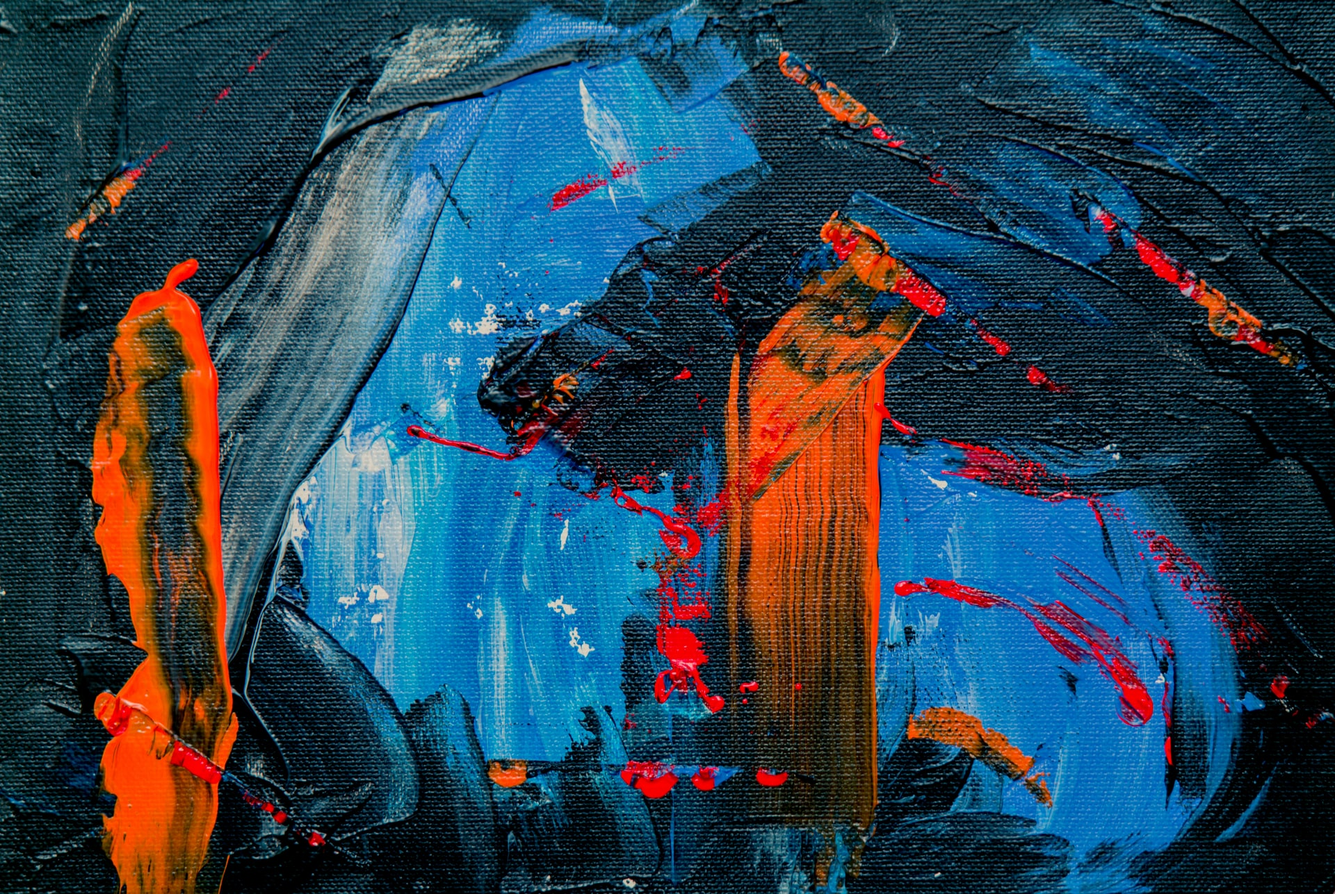
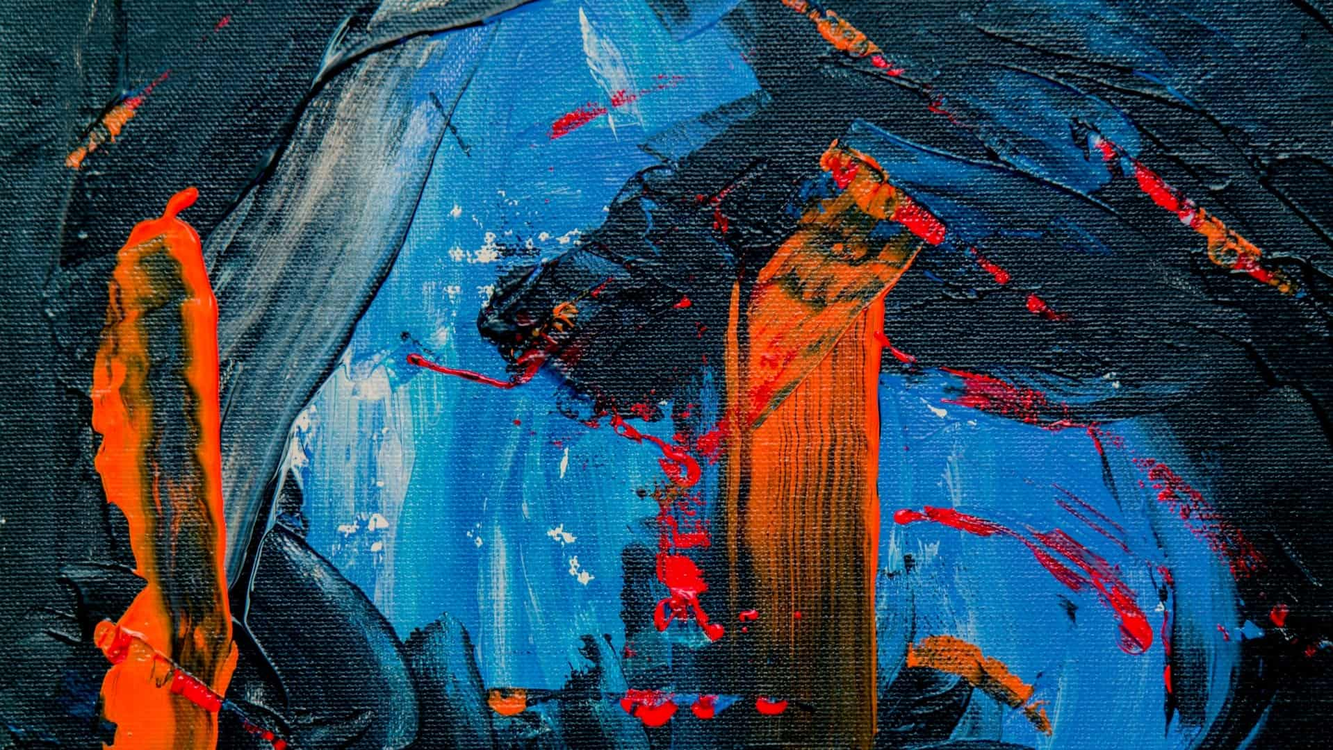
V 1.1 changed country to select, password match javascript, remove login requirement for buy, fix money input

diff --git a/templates/register.html b/templates/register.html
@@ -28,7 +28,252 @@ Register
             </div>
             <div class="form-group">
                 <label for="inputCountry">Country:</label>
-                <input type="text" name="country" class="form-control" id="inputCountry" aria-describedby="country" required>
+                <select id="country" name="country" class="form-control custom-select" id="inputCountry" aria-describedby="country" required>
+                    <option value="Afghanistan">Afghanistan</option>
+                    <option value="Åland Islands">Åland Islands</option>
+                    <option value="Albania">Albania</option>
+                    <option value="Algeria">Algeria</option>
+                    <option value="American Samoa">American Samoa</option>
+                    <option value="Andorra">Andorra</option>
+                    <option value="Angola">Angola</option>
+                    <option value="Anguilla">Anguilla</option>
+                    <option value="Antarctica">Antarctica</option>
+                    <option value="Antigua and Barbuda">Antigua and Barbuda</option>
+                    <option value="Argentina">Argentina</option>
+                    <option value="Armenia">Armenia</option>
+                    <option value="Aruba">Aruba</option>
+                    <option value="Australia">Australia</option>
+                    <option value="Austria">Austria</option>
+                    <option value="Azerbaijan">Azerbaijan</option>
+                    <option value="Bahamas">Bahamas</option>
+                    <option value="Bahrain">Bahrain</option>
+                    <option value="Bangladesh">Bangladesh</option>
+                    <option value="Barbados">Barbados</option>
+                    <option value="Belarus">Belarus</option>
+                    <option value="Belgium">Belgium</option>
+                    <option value="Belize">Belize</option>
+                    <option value="Benin">Benin</option>
+                    <option value="Bermuda">Bermuda</option>
+                    <option value="Bhutan">Bhutan</option>
+                    <option value="Bolivia">Bolivia</option>
+                    <option value="Bosnia and Herzegovina">Bosnia and Herzegovina</option>
+                    <option value="Botswana">Botswana</option>
+                    <option value="Bouvet Island">Bouvet Island</option>
+                    <option value="Brazil">Brazil</option>
+                    <option value="British Indian Ocean Territory">British Indian Ocean Territory</option>
+                    <option value="Brunei Darussalam">Brunei Darussalam</option>
+                    <option value="Bulgaria">Bulgaria</option>
+                    <option value="Burkina Faso">Burkina Faso</option>
+                    <option value="Burundi">Burundi</option>
+                    <option value="Cambodia">Cambodia</option>
+                    <option value="Cameroon">Cameroon</option>
+                    <option value="Canada">Canada</option>
+                    <option value="Cape Verde">Cape Verde</option>
+                    <option value="Cayman Islands">Cayman Islands</option>
+                    <option value="Central African Republic">Central African Republic</option>
+                    <option value="Chad">Chad</option>
+                    <option value="Chile">Chile</option>
+                    <option value="China">China</option>
+                    <option value="Christmas Island">Christmas Island</option>
+                    <option value="Cocos (Keeling) Islands">Cocos (Keeling) Islands</option>
+                    <option value="Colombia">Colombia</option>
+                    <option value="Comoros">Comoros</option>
+                    <option value="Congo">Congo</option>
+                    <option value="Congo, The Democratic Republic of The">Congo, The Democratic Republic of The</option>
+                    <option value="Cook Islands">Cook Islands</option>
+                    <option value="Costa Rica">Costa Rica</option>
+                    <option value="Cote D'ivoire">Cote D'ivoire</option>
+                    <option value="Croatia">Croatia</option>
+                    <option value="Cuba">Cuba</option>
+                    <option value="Cyprus">Cyprus</option>
+                    <option value="Czech Republic">Czech Republic</option>
+                    <option value="Denmark">Denmark</option>
+                    <option value="Djibouti">Djibouti</option>
+                    <option value="Dominica">Dominica</option>
+                    <option value="Dominican Republic">Dominican Republic</option>
+                    <option value="Ecuador">Ecuador</option>
+                    <option value="Egypt">Egypt</option>
+                    <option value="El Salvador">El Salvador</option>
+                    <option value="Equatorial Guinea">Equatorial Guinea</option>
+                    <option value="Eritrea">Eritrea</option>
+                    <option value="Estonia">Estonia</option>
+                    <option value="Ethiopia">Ethiopia</option>
+                    <option value="Falkland Islands (Malvinas)">Falkland Islands (Malvinas)</option>
+                    <option value="Faroe Islands">Faroe Islands</option>
+                    <option value="Fiji">Fiji</option>
+                    <option value="Finland">Finland</option>
+                    <option value="France">France</option>
+                    <option value="French Guiana">French Guiana</option>
+                    <option value="French Polynesia">French Polynesia</option>
+                    <option value="French Southern Territories">French Southern Territories</option>
+                    <option value="Gabon">Gabon</option>
+                    <option value="Gambia">Gambia</option>
+                    <option value="Georgia">Georgia</option>
+                    <option value="Germany">Germany</option>
+                    <option value="Ghana">Ghana</option>
+                    <option value="Gibraltar">Gibraltar</option>
+                    <option value="Greece">Greece</option>
+                    <option value="Greenland">Greenland</option>
+                    <option value="Grenada">Grenada</option>
+                    <option value="Guadeloupe">Guadeloupe</option>
+                    <option value="Guam">Guam</option>
+                    <option value="Guatemala">Guatemala</option>
+                    <option value="Guernsey">Guernsey</option>
+                    <option value="Guinea">Guinea</option>
+                    <option value="Guinea-bissau">Guinea-bissau</option>
+                    <option value="Guyana">Guyana</option>
+                    <option value="Haiti">Haiti</option>
+                    <option value="Heard Island and Mcdonald Islands">Heard Island and Mcdonald Islands</option>
+                    <option value="Holy See (Vatican City State)">Holy See (Vatican City State)</option>
+                    <option value="Honduras">Honduras</option>
+                    <option value="Hong Kong">Hong Kong</option>
+                    <option value="Hungary">Hungary</option>
+                    <option value="Iceland">Iceland</option>
+                    <option value="India">India</option>
+                    <option value="Indonesia">Indonesia</option>
+                    <option value="Iran, Islamic Republic of">Iran, Islamic Republic of</option>
+                    <option value="Iraq">Iraq</option>
+                    <option value="Ireland">Ireland</option>
+                    <option value="Isle of Man">Isle of Man</option>
+                    <option value="Israel">Israel</option>
+                    <option value="Italy">Italy</option>
+                    <option value="Jamaica">Jamaica</option>
+                    <option value="Japan">Japan</option>
+                    <option value="Jersey">Jersey</option>
+                    <option value="Jordan">Jordan</option>
+                    <option value="Kazakhstan">Kazakhstan</option>
+                    <option value="Kenya">Kenya</option>
+                    <option value="Kiribati">Kiribati</option>
+                    <option value="Korea, Democratic People's Republic of">Korea, Democratic People's Republic of</option>
+                    <option value="Korea, Republic of">Korea, Republic of</option>
+                    <option value="Kuwait">Kuwait</option>
+                    <option value="Kyrgyzstan">Kyrgyzstan</option>
+                    <option value="Lao People's Democratic Republic">Lao People's Democratic Republic</option>
+                    <option value="Latvia">Latvia</option>
+                    <option value="Lebanon">Lebanon</option>
+                    <option value="Lesotho">Lesotho</option>
+                    <option value="Liberia">Liberia</option>
+                    <option value="Libyan Arab Jamahiriya">Libyan Arab Jamahiriya</option>
+                    <option value="Liechtenstein">Liechtenstein</option>
+                    <option value="Lithuania">Lithuania</option>
+                    <option value="Luxembourg">Luxembourg</option>
+                    <option value="Macao">Macao</option>
+                    <option value="Macedonia, The Former Yugoslav Republic of">Macedonia, The Former Yugoslav Republic of</option>
+                    <option value="Madagascar">Madagascar</option>
+                    <option value="Malawi">Malawi</option>
+                    <option value="Malaysia">Malaysia</option>
+                    <option value="Maldives">Maldives</option>
+                    <option value="Mali">Mali</option>
+                    <option value="Malta">Malta</option>
+                    <option value="Marshall Islands">Marshall Islands</option>
+                    <option value="Martinique">Martinique</option>
+                    <option value="Mauritania">Mauritania</option>
+                    <option value="Mauritius">Mauritius</option>
+                    <option value="Mayotte">Mayotte</option>
+                    <option value="Mexico">Mexico</option>
+                    <option value="Micronesia, Federated States of">Micronesia, Federated States of</option>
+                    <option value="Moldova, Republic of">Moldova, Republic of</option>
+                    <option value="Monaco">Monaco</option>
+                    <option value="Mongolia">Mongolia</option>
+                    <option value="Montenegro">Montenegro</option>
+                    <option value="Montserrat">Montserrat</option>
+                    <option value="Morocco">Morocco</option>
+                    <option value="Mozambique">Mozambique</option>
+                    <option value="Myanmar">Myanmar</option>
+                    <option value="Namibia">Namibia</option>
+                    <option value="Nauru">Nauru</option>
+                    <option value="Nepal">Nepal</option>
+                    <option value="Netherlands">Netherlands</option>
+                    <option value="Netherlands Antilles">Netherlands Antilles</option>
+                    <option value="New Caledonia">New Caledonia</option>
+                    <option value="New Zealand">New Zealand</option>
+                    <option value="Nicaragua">Nicaragua</option>
+                    <option value="Niger">Niger</option>
+                    <option value="Nigeria">Nigeria</option>
+                    <option value="Niue">Niue</option>
+                    <option value="Norfolk Island">Norfolk Island</option>
+                    <option value="Northern Mariana Islands">Northern Mariana Islands</option>
+                    <option value="Norway">Norway</option>
+                    <option value="Oman">Oman</option>
+                    <option value="Pakistan">Pakistan</option>
+                    <option value="Palau">Palau</option>
+                    <option value="Palestinian Territory, Occupied">Palestinian Territory, Occupied</option>
+                    <option value="Panama">Panama</option>
+                    <option value="Papua New Guinea">Papua New Guinea</option>
+                    <option value="Paraguay">Paraguay</option>
+                    <option value="Peru">Peru</option>
+                    <option value="Philippines">Philippines</option>
+                    <option value="Pitcairn">Pitcairn</option>
+                    <option value="Poland">Poland</option>
+                    <option value="Portugal">Portugal</option>
+                    <option value="Puerto Rico">Puerto Rico</option>
+                    <option value="Qatar">Qatar</option>
+                    <option value="Reunion">Reunion</option>
+                    <option value="Romania">Romania</option>
+                    <option value="Russian Federation">Russian Federation</option>
+                    <option value="Rwanda">Rwanda</option>
+                    <option value="Saint Helena">Saint Helena</option>
+                    <option value="Saint Kitts and Nevis">Saint Kitts and Nevis</option>
+                    <option value="Saint Lucia">Saint Lucia</option>
+                    <option value="Saint Pierre and Miquelon">Saint Pierre and Miquelon</option>
+                    <option value="Saint Vincent and The Grenadines">Saint Vincent and The Grenadines</option>
+                    <option value="Samoa">Samoa</option>
+                    <option value="San Marino">San Marino</option>
+                    <option value="Sao Tome and Principe">Sao Tome and Principe</option>
+                    <option value="Saudi Arabia">Saudi Arabia</option>
+                    <option value="Senegal">Senegal</option>
+                    <option value="Serbia">Serbia</option>
+                    <option value="Seychelles">Seychelles</option>
+                    <option value="Sierra Leone">Sierra Leone</option>
+                    <option value="Singapore">Singapore</option>
+                    <option value="Slovakia">Slovakia</option>
+                    <option value="Slovenia">Slovenia</option>
+                    <option value="Solomon Islands">Solomon Islands</option>
+                    <option value="Somalia">Somalia</option>
+                    <option value="South Africa">South Africa</option>
+                    <option value="South Georgia and The South Sandwich Islands">South Georgia and The South Sandwich Islands</option>
+                    <option value="Spain">Spain</option>
+                    <option value="Sri Lanka">Sri Lanka</option>
+                    <option value="Sudan">Sudan</option>
+                    <option value="Suriname">Suriname</option>
+                    <option value="Svalbard and Jan Mayen">Svalbard and Jan Mayen</option>
+                    <option value="Swaziland">Swaziland</option>
+                    <option value="Sweden">Sweden</option>
+                    <option value="Switzerland">Switzerland</option>
+                    <option value="Syrian Arab Republic">Syrian Arab Republic</option>
+                    <option value="Taiwan, Province of China">Taiwan, Province of China</option>
+                    <option value="Tajikistan">Tajikistan</option>
+                    <option value="Tanzania, United Republic of">Tanzania, United Republic of</option>
+                    <option value="Thailand">Thailand</option>
+                    <option value="Timor-leste">Timor-leste</option>
+                    <option value="Togo">Togo</option>
+                    <option value="Tokelau">Tokelau</option>
+                    <option value="Tonga">Tonga</option>
+                    <option value="Trinidad and Tobago">Trinidad and Tobago</option>
+                    <option value="Tunisia">Tunisia</option>
+                    <option value="Turkey">Turkey</option>
+                    <option value="Turkmenistan">Turkmenistan</option>
+                    <option value="Turks and Caicos Islands">Turks and Caicos Islands</option>
+                    <option value="Tuvalu">Tuvalu</option>
+                    <option value="Uganda">Uganda</option>
+                    <option value="Ukraine">Ukraine</option>
+                    <option value="United Arab Emirates">United Arab Emirates</option>
+                    <option value="United Kingdom">United Kingdom</option>
+                    <option value="United States">United States</option>
+                    <option value="United States Minor Outlying Islands">United States Minor Outlying Islands</option>
+                    <option value="Uruguay">Uruguay</option>
+                    <option value="Uzbekistan">Uzbekistan</option>
+                    <option value="Vanuatu">Vanuatu</option>
+                    <option value="Venezuela">Venezuela</option>
+                    <option value="Viet Nam">Viet Nam</option>
+                    <option value="Virgin Islands, British">Virgin Islands, British</option>
+                    <option value="Virgin Islands, U.S.">Virgin Islands, U.S.</option>
+                    <option value="Wallis and Futuna">Wallis and Futuna</option>
+                    <option value="Western Sahara">Western Sahara</option>
+                    <option value="Yemen">Yemen</option>
+                    <option value="Zambia">Zambia</option>
+                    <option value="Zimbabwe">Zimbabwe</option>
+                </select>
             </div>
             <div class="form-group">
                 <label for="inputPassword">Password:</label>
@@ -40,10 +285,30 @@ Register
                 <label for="inputPassword">Password Again:</label>
                 <input type="password" name="secPassword" class="form-control" id="secPassword" required>
             </div>
+            <div id="infoDiv">
+
+            </div>
             <div class="form-group d-flex justify-content-center mt-5">
-                <button type="submit" class="btn btn-primary">Register</button>
+                <button type="submit" class="btn btn-primary" id="registerButton">Register</button>
             </div>
         </form>
     </div>
 </section>
+<script>
+    const firstPassword = document.querySelector("#inputPassword");
+    const secondPassword = document.querySelector("#secPassword");
+    const infoDiv = document.querySelector("#infoDiv")
+    const registerButton = document.querySelector("#registerButton")
+    secondPassword.addEventListener("input", (e)=>{
+        if (e.target.value !== firstPassword.value) {
+            infoDiv.innerHTML = `<small id="errorHelp" class="form-text text-danger">The passwords don't match</small>`;
+            registerButton.disabled = true;
+            registerButton.classList.add("disabled")
+        } else {
+            infoDiv.innerHTML = ""
+            registerButton.disabled = false;
+            registerButton.classList.remove("disabled")
+        }
+    });
+</script>
 {% endblock %}

diff --git a/templates/dashboard.html b/templates/dashboard.html
@@ -28,7 +28,8 @@ Dashboard
                             <h3 class="display-5">Add Cash</h3>
                             <div class="form-group mt-3"> 
                                 <input type="number" name="moreCash" class="form-control" id="inputCash"
-                                    placeholder="200" required>
+                                    placeholder="200" min="1" max="10000" required>
+                                <small id="cashHelp" class="form-text text-muted">Max amount is 10,000</small>
                             </div>
                             <div class="form-group d-flex justify-content-center">
                                 <button type="submit" class="btn btn-primary">Add</button>
@@ -68,4 +69,11 @@ Dashboard
         </div>
     </section>
 </div>
+<script>
+    document.querySelector("#inputCash").addEventListener("keypress", function (evt) {
+            if (evt.which != 8 && evt.which != 0 && evt.which < 48 || evt.which > 57) {
+                evt.preventDefault();
+            }
+        });
+</script>
 {% endblock %}

diff --git a/templates/login.html b/templates/login.html
@@ -20,6 +20,7 @@
                 <div class="form-group">
                     <label for="inputPassword">Password:</label>
                     <input type="password" name="password" class="form-control" id="inputPassword" required>
+                    <small id="passwordHelp" class="form-text text-muted"><a href="/register">Don't have an account?</a></small>
                 </div>
                 <div class="form-group d-flex justify-content-center mt-5">
                     <button type="submit" class="btn btn-primary">Login</button>

diff --git a/templates/message.html b/templates/message.html
@@ -9,7 +9,7 @@ Message
     <section class="main-section">
         <div class="message-screen">
             <div id="buy-top" class="d-flex flex-column justify-content-center align-items-center top" style="
-    background-image: url({{ url_for('static', filename='images/thanks.jpg') }});">
+    background-image: url({{ url_for('static', filename='images/error.jpg') }});">
                 <h2 class="display-3 font-weight-bold" style="color:white;">MESSAGE</h2>
             </div>
             <div class="container-lg">

diff --git a/static/styles/styles.css b/static/styles/styles.css
@@ -84,7 +84,7 @@
 
 .top {
     height: 150px;
-    background-position: center bottom;
+    background-position: center;
     background-size: cover;
     background-repeat: no-repeat;
     background-attachment: fixed;

diff --git a/main.py b/main.py
@@ -240,7 +240,6 @@ def logout():
 
 
 @app.route("/buy", methods=["GET", "POST"])
-@login_required
 def buy():
     if request.method == "GET":
         with sqlite3.connect("gallery.db") as con:
@@ -310,8 +309,7 @@ def sell():
                 # To make the filename unique
                 extension = splitext(filename)[1]
                 filename = splitext(filename)[0]
-                filename = filename + \
-                    re.sub('[^a-zA-Z0-9_]+', "", formattedDate) + extension
+                filename = filename + re.sub('[^a-zA-Z0-9_]+', "", formattedDate) + extension
                 address = join(app.config["UPLOAD_FOLDER"], filename)
                 image.save(address)
                 title = request.form.get("title")

diff --git a/readme.md b/readme.md
@@ -1,4 +1,4 @@
-## The Art Gallery Project
+## The Art Gallery by Hassan Suhaib
 
 **Purpose:** This project is being build as a Final Project by Hassan Suhaib for completing the cs50 course.
 
